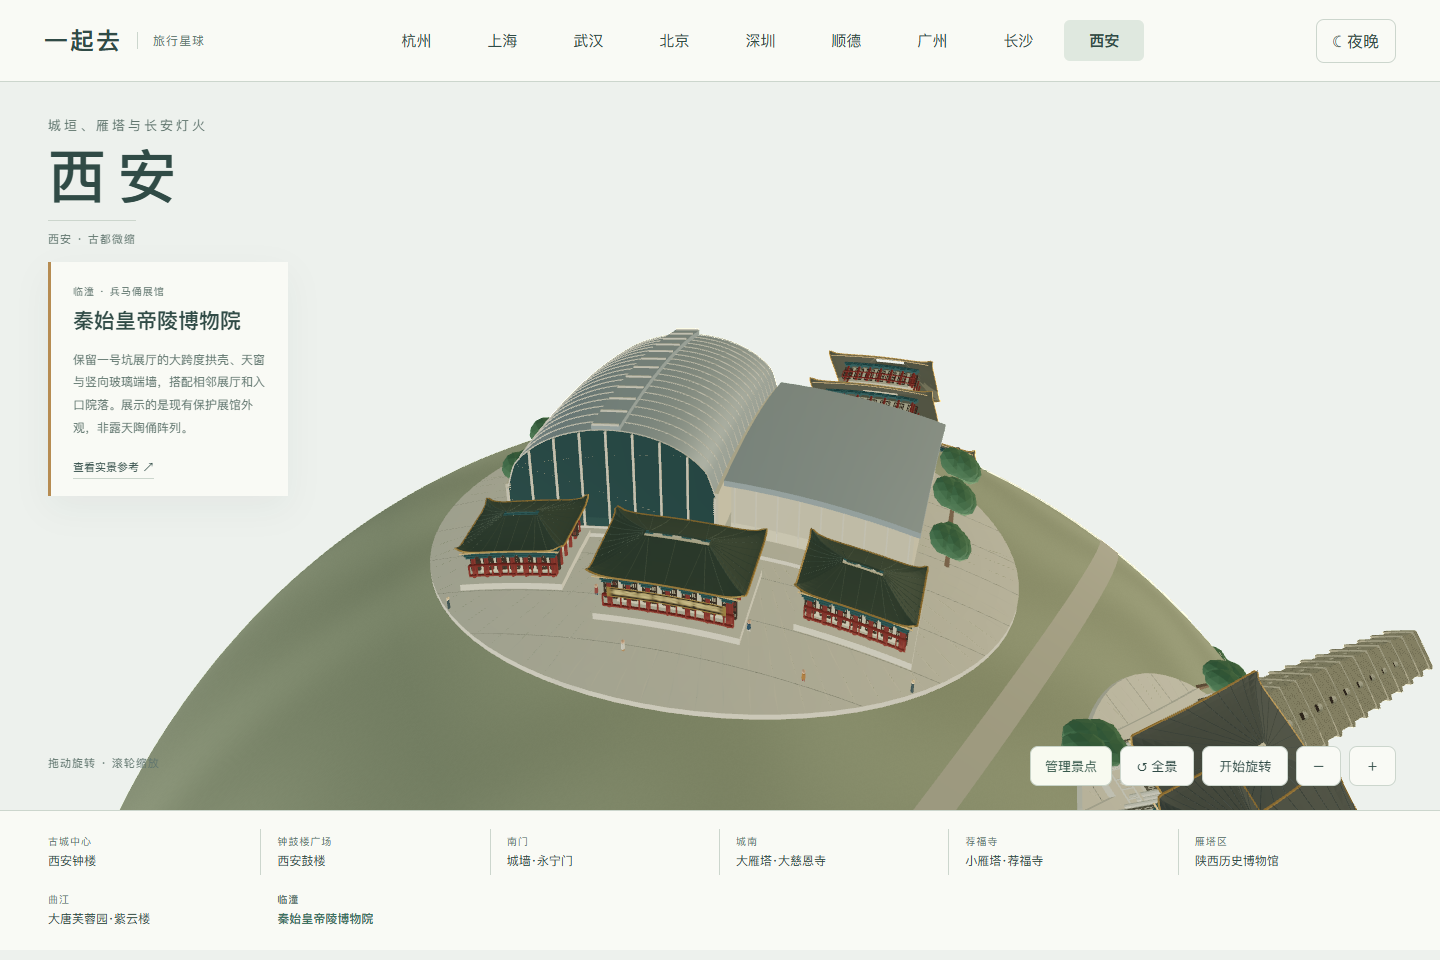
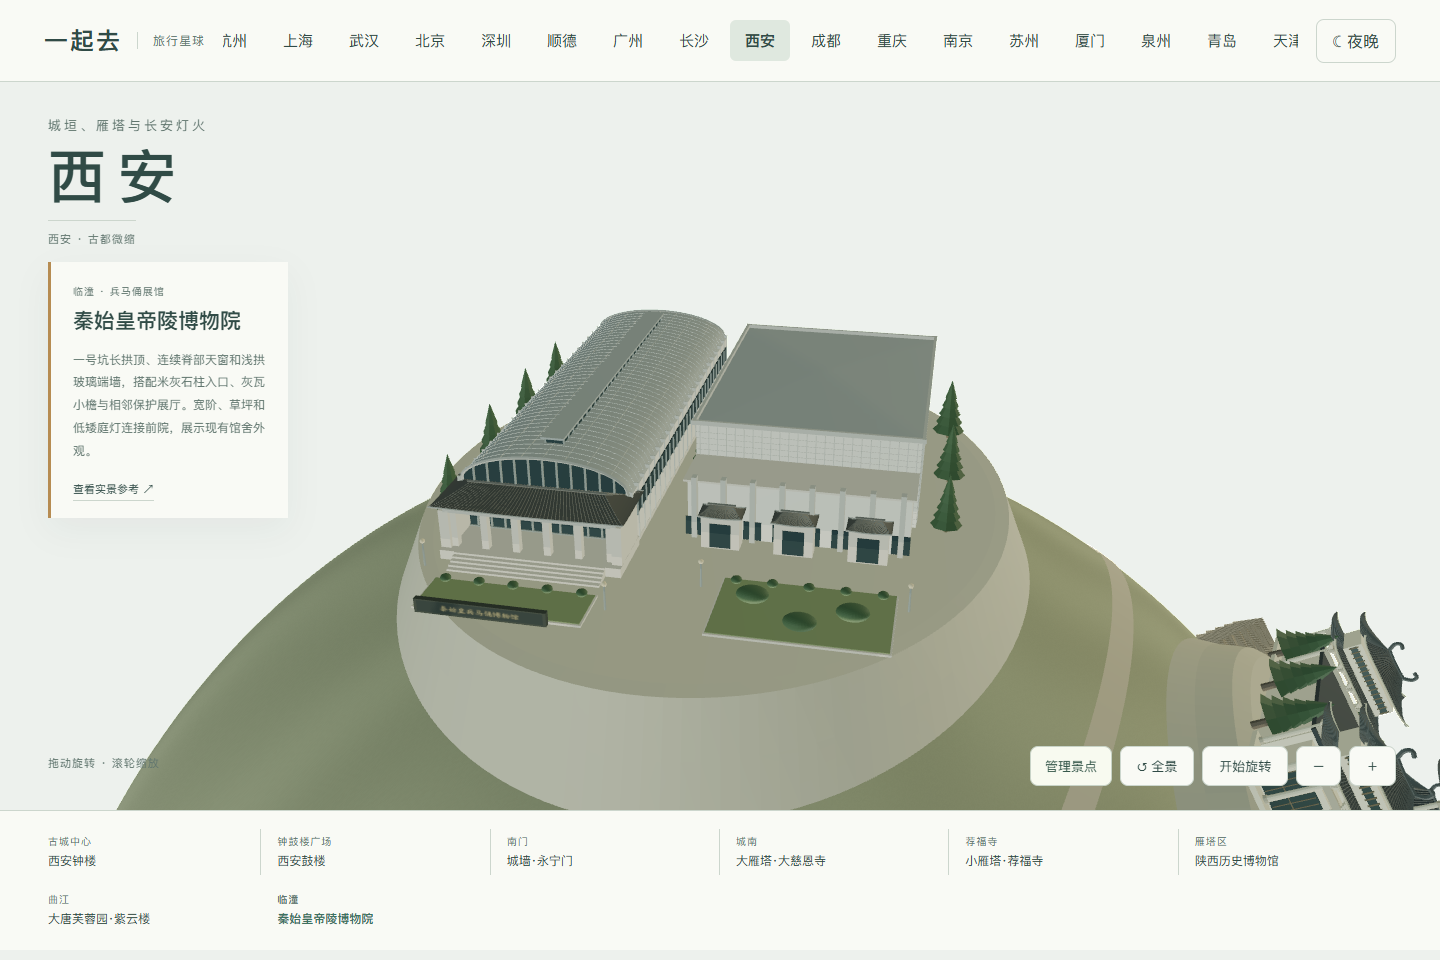
Refine Terracotta Army protective halls and courtyard lighting

diff --git a/web/xian-warriors.js b/web/xian-warriors.js
@@ -1,0 +1,96 @@
+import * as THREE from 'three';
+
+function surface(k,g,m,fn,nu=32,nv=24){
+ const p=[],ix=[];for(let j=0;j<=nv;j++)for(let i=0;i<=nu;i++)p.push(...fn(i/nu,j/nv));
+ for(let j=0;j<nv;j++)for(let i=0;i<nu;i++){const a=j*(nu+1)+i,b=a+nu+1;ix.push(a,a+1,b,a+1,b+1,b);}
+ const geo=new THREE.BufferGeometry();geo.setAttribute('position',new THREE.Float32BufferAttribute(p,3));geo.setIndex(ix);geo.computeVertexNormals();m.side=THREE.DoubleSide;k.mesh(g,geo,m);
+}
+function hip(k,g,p,w,d,y,h){
+ const ridge=Math.max(.015,w/2-d*.38);
+ for(const sign of [-1,1]){
+  const pt=(u,t,lift=0)=>[(u*2-1)*(ridge+(w/2-ridge)*t),y+h*(1-t)**1.28+.003*t**6*Math.abs(u*2-1)**6+lift,sign*d/2*t];
+  surface(k,g,p.tile,(u,t)=>pt(u,t),36,12);
+  for(let i=0;i<=50;i++)k.line(g,Array.from({length:9},(_,j)=>pt(i/50,j/8,.0007)),.00065,p.tileRib);
+  surface(k,g,p.tile,(u,t)=>[sign*(ridge+(w/2-ridge)*t),y+h*(1-t)**1.28+.003*t**6*Math.abs(u*2-1)**6,(u*2-1)*d/2*t],24,12);
+  k.line(g,[[-w/2,y+.003,sign*d/2],[0,y,sign*d/2],[w/2,y+.003,sign*d/2]],.002,p.trim);
+ }
+ k.line(g,[[-ridge-.006,y+h+.004,0],[ridge+.006,y+h+.004,0]],.003,p.tileRib);
+}
+function cedar(k,g,p,x,z,h){
+ k.cyl(g,.003,.006,h*.65,p.trunk,x,.016+h*.32,z,6);
+ for(let j=0;j<5;j++)k.mesh(g,new THREE.ConeGeometry(h*(.27-.043*j),h*.33,8),p.leaf,x,.016+h*(.30+.15*j),z);
+}
+function entry(k,g,p,x,z,w=.43){
+ const e=new THREE.Group();e.position.set(x,0,z);g.add(e);
+ k.box(e,w+.024,.024,.165,p.stone,0,.026,0);
+ for(let i=0;i<5;i++)k.box(e,w*.88,.0048*(i+1),.012,p.stone,0,.014+.0024*(i+1),.128-i*.012);
+ for(let i=0;i<6;i++)k.box(e,.017,.096,.019,p.stone,(i/5-.5)*w*.91,.088,.050);
+ for(const s of [-1,1])k.box(e,.025,.10,.14,p.stone,s*w/2,.090,0);
+ k.box(e,w,.018,.14,p.trim,0,.145,0);hip(k,e,p,w+.050,.185,.156,.030);
+ for(let i=0;i<5;i++){
+  const xx=((i+.5)/5-.5)*w*.91;k.box(e,w*.14,.095,.004,p.glass,xx,.088,-.06);
+  k.box(e,w*.12,.002,.006,p.lamp,xx,.130,.038);
+ }
+}
+function sign(k,g,p){
+ k.box(g,.31,.035,.014,p.darkStone,-.39,.033,.74);
+ if(typeof document==='undefined')return;
+ const c=document.createElement('canvas');c.width=1024;c.height=128;const ctx=c.getContext('2d');ctx.fillStyle='#3c4742';ctx.fillRect(0,0,1024,128);ctx.fillStyle='#b9ac7f';ctx.font='72px "KaiTi", "Microsoft YaHei", serif';ctx.textAlign='center';ctx.textBaseline='middle';ctx.fillText('秦始皇兵马俑博物馆',512,68,995);
+ const t=new THREE.CanvasTexture(c);t.colorSpace=THREE.SRGBColorSpace;const m=new THREE.MeshStandardMaterial({map:t,roughness:.9});m.userData.night={color:new THREE.Color('#c1b38e'),intensity:.08};k.materials.push(m);k.mesh(g,new THREE.PlaneGeometry(.296,.028),m,-.39,.034,.7475);
+}
+export function warriors(k){
+ const first=k.materials.length,g=new THREE.Group(),p={stone:k.mat('#bebdb0'),trim:k.mat('#acb0a7'),wall:k.mat('#c5c7bc'),panel:k.mat('#aeb3aa'),glass:k.mat('#384e4f',.4,.12),frame:k.mat('#8c9690'),metal:k.mat('#9da6a1',.73,.17),seam:k.mat('#bdc4bb',.8),tile:k.mat('#595d57'),tileRib:k.mat('#767971'),leaf:k.mat('#526b4c'),trunk:k.mat('#746d58'),ground:k.mat('#bcbba6'),lawn:k.mat('#819068'),darkStone:k.mat('#444d44')};
+ for(const [key,m]of Object.entries(p))m.userData.night={color:new THREE.Color(key==='glass'?'#edd8ad':key==='leaf'?'#7b946f':'#ddc9a4'),intensity:key==='glass'?.15:key==='metal'?.025:key==='ground'?.025:.045};
+ p.lamp=k.mat('#c9c0a3',.8,0,'#ffe0a6');p.lamp.userData.night.intensity=.6;p.metal.userData.preserveSmooth=true;
+ // A continuous flat visitor plaza blends down to the sphere only beyond the buildings.
+ surface(k,g,p.ground,(u,v)=>{const a=u*Math.PI*2,r=v,x=.84*r*Math.cos(a),z=1.02*r*Math.sin(a),sag=2.15-Math.sqrt(2.15**2-x*x-z*z);return[x,.014-sag*THREE.MathUtils.smoothstep(r,.91,1),z];},128,24);
+ const one=new THREE.Group();one.position.set(-.36,0,-.20);g.add(one);
+ const w=.43,d=1.16,roofY=x=>.165+.077*Math.sqrt(Math.max(0,1-(x/(w/2))**2));
+ k.box(one,w+.015,.012,d+.018,p.stone,0,.020,0);
+ for(const s of [-1,1]){
+  k.box(one,.014,.145,d,p.wall,s*w/2,.093,0);
+  for(let i=0;i<23;i++){const z=(i/22-.5)*d;k.box(one,.017,.155,.004,p.panel,s*(w/2+.001),.097,z);}
+  k.box(one,.003,.045,d-.06,p.glass,s*(w/2+.009),.121,0);
+  for(let i=0;i<28;i++)k.box(one,.004,.048,.002,p.frame,s*(w/2+.012),.121,(i/27-.5)*(d-.06));
+ }
+ surface(k,one,p.metal,(u,v)=>{const x=(u-.5)*w;return[x,roofY(x),(v-.5)*d];},48,60);
+ for(let i=0;i<=43;i++){const z=(i/43-.5)*d;k.line(one,Array.from({length:41},(_,j)=>{const x=(j/40-.5)*w;return[x,roofY(x)+.0008,z];}),.00065,p.seam);}
+ for(const x of [-.17,-.11,-.055,0,.055,.11,.17])k.line(one,[[x,roofY(x)+.001,-d/2],[x,roofY(x)+.001,d/2]],.00055,p.panel);
+ for(const s of [-1,1]){
+  const f=new THREE.Shape();f.moveTo(-w/2,.026);f.lineTo(w/2,.026);for(let i=48;i>=0;i--){const x=(i/48-.5)*w;f.lineTo(x,roofY(x)-.004);}f.closePath();
+  const m=k.mesh(one,new THREE.ShapeGeometry(f),p.glass,0,0,s*d/2);if(s<0)m.rotation.y=Math.PI;
+  for(let i=0;i<13;i++){const x=(i/12-.5)*w,h=roofY(x)-.026;k.box(one,.004,h,.006,p.frame,x,.026+h/2,s*(d/2+.002));}
+  for(let j=0;j<5;j++){const y=.042+j*.031;k.box(one,w-.009,.0025,.004,p.frame,0,y,s*(d/2+.005));}
+  k.line(one,Array.from({length:49},(_,j)=>{const x=(j/48-.5)*w;return[x,roofY(x)+.001,s*(d/2+.003)];}),.004,p.trim);
+ }
+ // Raised continuous ridge-light above the shallow vault.
+ k.box(one,.046,.020,d*.84,p.glass,0,.248,0);k.box(one,.060,.005,d*.87,p.metal,0,.261,0);
+ for(const s of [-1,1])for(let i=0;i<27;i++)k.box(one,.004,.019,.003,p.frame,s*.024,.248,(i/26-.5)*d*.84);
+ entry(k,g,p,-.36,.43,.43);
+ // The neighboring pit hall is a broad, low square volume with an entrance extension.
+ const two=new THREE.Group();two.position.set(.25,0,-.25);g.add(two);
+ k.box(two,.57,.237,.76,p.wall,0,.136,0);
+ surface(k,two,p.metal,(u,v)=>[(u-.5)*.57,.258+.021*(1-Math.max(Math.abs(u*2-1),Math.abs(v*2-1))),(v-.5)*.76],24,30);
+ for(const s of [-1,1]){
+  k.box(two,.008,.012,.78,p.trim,s*.289,.262,0);k.box(two,.59,.012,.008,p.trim,0,.262,s*.384);
+  for(let i=0;i<25;i++)k.box(two,.002,.224,.002,p.panel,(i/24-.5)*.55,.139,s*.381);
+  for(let i=0;i<35;i++)k.box(two,.002,.224,.002,p.panel,s*.286,.139,(i/34-.5)*.74);
+ }
+ for(let j=0;j<14;j++)for(const s of [-1,1]){const y=.026+j*.016;k.box(two,.571,.0006,.001,p.panel,0,y,s*.381);k.box(two,.001,.0006,.761,p.panel,s*.286,y,0);}
+ k.box(two,.55,.15,.17,p.wall,0,.091,.44);k.box(two,.57,.005,.185,p.stone,0,.169,.44);
+ for(let i=0;i<8;i++){const x=(i/7-.5)*.51;k.box(two,.013,.166,.020,p.trim,x,.102,.535);k.box(two,.045,.050,.003,p.glass,x,.050,.539);}
+ for(const x of [-.18,0,.18]){const e=new THREE.Group();e.position.set(x,0,.568);two.add(e);k.box(e,.095,.085,.045,p.stone,0,.063,0);k.box(e,.053,.065,.002,p.glass,0,.056,.023);hip(k,e,p,.11,.067,.108,.019);}
+ // Front lawns leave clear walks to both halls; planting frames the site rather than filling it.
+ for(const [x,z,ww,dd]of [[-.36,.67,.39,.12],[.31,.59,.40,.23]]){
+  k.box(g,ww+.008,.005,dd+.008,p.stone,x,.018,z);k.box(g,ww,.002,dd,p.lawn,x,.022,z);
+  for(let i=0;i<5;i++){const b=k.ball(g,.013,p.leaf,x+(i/4-.5)*ww*.85,.031,z-dd*.43);b.scale.y=.70;}
+ }
+ for(const [x,z]of [[.19,.56],[.42,.59],[.31,.65]]){const b=k.ball(g,.027,p.leaf,x,.040,z);b.scale.set(1.4,.7,1);}
+ for(const [x,z,h]of [[-.65,-.55,.17],[-.65,-.28,.18],[-.65,0,.18],[-.65,.29,.16],[-.06,-.58,.16],[-.06,-.35,.17],[-.06,-.12,.16],[.60,-.46,.17],[.61,-.16,.16],[.61,.13,.15]])cedar(k,g,p,x,z,h);
+ for(const [i,[x,z]]of [[-.13,.65],[.06,.51],[.54,.52],[-.61,.55]].entries()){
+  const lamp=k.mat('#c9c0a3',.8,0,'#ffe0a6');lamp.userData.night.intensity=.80;lamp.userData.pulse={speed:.70+i*.08,phase:i*1.7};
+  k.cyl(g,.002,.003,.064,p.frame,x,.046,z,8);k.ball(g,.006,lamp,x,.081,z);
+ }
+ sign(k,g,p);for(const m of k.materials.slice(first))m.userData.warriorsRigid=true;
+ g.userData={barrelVault:true,pitHalls:2,openStonePortico:true};return k.merge(g);
+}

diff --git a/web/xian-places.js b/web/xian-places.js
@@ -1,7 +1,6 @@
 import * as THREE from 'three';
 import {colors,terrace,ellipseSurface,steps,timberFloor,eave,hall,groves,finish,archWall,roof,glow,people} from './xian-kit.js';
 import {plaque,rail} from './wuhan-architecture.js';
-import {skin} from './shenzhen-forms.js';
 
 export function wall(k){
   const g=new THREE.Group(),p=colors(k);terrace(k,g,p,.77,.61);
@@ -32,18 +31,4 @@ export function furong(k){
   const island=k.cyl(g,.09,.10,.018,p.green,.49,.03,.20,24);hall(k,g,p,{x:.49,z:.20,w:.10,d:.10,y:.04,h:.06,roofHeight:.035});
   g.userData={modernTangGarden:true};return finish(k,g,p,{visitors:[[-.12,.07],[.12,.06],[-.40,-.01],[.20,-.03]]});
 }
-export function warriors(k){
-  const g=new THREE.Group(),p=colors(k);terrace(k,g,p,.80,.68);const metal=k.mat('#a6b1ae',.62,.34),glass=k.mat('#42615e',.27,.25);glass.userData.night={color:new THREE.Color('#e9d7ae'),intensity:.18};
-  const pit=new THREE.Group();pit.position.set(-.24,0,-.16);const w=.56,d=.70,roofY=x=>.16+.16*Math.sqrt(Math.max(0,1-(x/(w/2))**2));
-  k.box(pit,w,.02,d,p.light,0,.024,0);for(const s of [-1,1])k.box(pit,.015,.14,d,p.wall,s*w/2,.10,0);
-  skin(k,pit,(u,v)=>{const x=(u-.5)*w;return [x,roofY(x),(v-.5)*d];},30,36,metal);metal.userData.preserveSmooth=true;
-  for(let i=0;i<=18;i++){const z=(i/18-.5)*d;k.line(pit,Array.from({length:25},(_,j)=>{const x=(j/24-.5)*w;return [x,roofY(x)+.002,z];}),.0015,p.light);}
-  const facade=new THREE.Shape();facade.moveTo(-w/2,.035);facade.lineTo(w/2,.035);for(let i=24;i>=0;i--){const x=(i/24-.5)*w;facade.lineTo(x,roofY(x));}facade.closePath();
-  for(const s of [-1,1]){const face=k.mesh(pit,new THREE.ShapeGeometry(facade),glass,0,0,s*d/2);if(s<0)face.rotation.y=Math.PI;for(let i=0;i<=8;i++){const x=(i/8-.5)*w;k.box(pit,.004,roofY(x)-.035,.006,p.light,x,(roofY(x)+.035)/2,s*(d/2+.004));}}
-  k.box(pit,.075,.014,d,metal,0,.328,0);for(let i=0;i<12;i++)k.box(pit,.07,.005,.004,p.light,0,.337,(i/11-.5)*d);g.add(pit);
-  k.box(g,.46,.16,.62,p.wall,.30,.10,-.16);k.box(g,.49,.016,.65,metal,.30,.186,-.16);
-  for(let i=0;i<9;i++)k.box(g,.003,.148,.006,p.light,.08+i*.055,.11,.154);
-  for(const s of [-1,1])hall(k,g,p,{x:s*.43,z:.31,w:.24,d:.16,h:.085,roofHeight:.04});hall(k,g,p,{x:0,z:.38,w:.32,d:.18,h:.10,roofHeight:.045});
-  k.box(g,.92,.011,.12,p.light,0,.022,.15);groves(k,g,[[-.58,-.45,.09],[-.59,-.25,.10],[-.59,-.04,.09],[.60,-.43,.10],[.60,-.21,.10],[.61,.01,.09]]);
-  plaque(k,g,'秦始皇帝陵博物院',.29,.028,0,.096,.479);g.userData={barrelVault:true,pitHalls:2};return finish(k,g,p,{lamps:[[-.58,.46],[.58,.46],[-.15,.22],[.15,.22]],visitors:[[-.2,.41],[.19,.44],[-.08,.56],[.34,.53]]});
-}
+export {warriors} from "./xian-warriors.js";

diff --git a/web/xian-landmarks.js b/web/xian-landmarks.js
@@ -8,7 +8,7 @@ export const LANDMARKS=[
   {id:'smallPagoda',name:'小雁塔·荐福寺',area:'荐福寺 · 密檐古塔',x:-1.02,z:.85,hemisphere:-1,height:1.27,distance:2.9,view:[.33,.73,1.7],description:'十三层砖塔向上渐密收分，南北券窗与叠涩砖檐保留细节，四角残墙围合塔顶。石门、台阶、灰瓦殿堂和古树组成荐福寺院落，夜间以低亮暖光呈现砖色。',source:'https://m.thepaper.cn/newsDetail_forward_28705852'},
   {id:'museum',name:'陕西历史博物馆',area:'雁塔区 · 唐风殿堂',x:1.07,z:.95,hemisphere:-1,height:.53,distance:3.0,view:[.35,.73,1.7],description:'独立前门、重檐主殿、四角楼与连续柱廊围合庭院，灰瓦、浅石柱和宽阶保留唐风馆舍层次。入口水池与灰底金字石牌面向广场，夜间以廊下暖光和低矮庭灯分层。',source:'https://www.cscec.com/ztzl_new/mhsjd81_new/bq/201812/2899627.html'},
   {id:'furong',name:'大唐芙蓉园·紫云楼',area:'曲江 · 临水唐风园林',x:-1.10,z:-.88,hemisphere:-1,height:.72,distance:3.0,view:[.45,1.0,1.6],description:'紫云楼、侧亭、台阶与临水广场面向芙蓉湖。夜间以暖金檐光衬托深色屋顶和水面；这是现代仿唐园林的缩微表达。',source:'https://dp.pconline.com.cn/photo/list_4848079.html'},
-  {id:'warriors',name:'秦始皇帝陵博物院',area:'临潼 · 兵马俑展馆',x:1.10,z:-.88,hemisphere:-1,height:.40,distance:3.0,view:[.45,1.0,1.65],description:'保留一号坑展厅的大跨度拱壳、天窗与竖向玻璃端墙，搭配相邻展厅和入口院落。展示的是现有保护展馆外观，非露天陶俑阵列。',source:'https://www.bmy.com.cn/index.htm'},
+  {id:'warriors',name:'秦始皇帝陵博物院',area:'临潼 · 兵马俑展馆',x:1.10,z:-1.08,hemisphere:-1,height:.30,distance:3.1,view:[.35,.80,1.7],description:'一号坑长拱顶、连续脊部天窗和浅拱玻璃端墙，搭配米灰石柱入口、灰瓦小檐与相邻保护展厅。宽阶、草坪和低矮庭灯连接前院，展示现有馆舍外观。',source:'https://www.bmy.com.cn/pitone.html'},
 ].map(item=>({...item,grounded:true}));
 const builders={bell,drum,wall,pagoda,smallPagoda,museum:historyMuseum,furong,warriors};
 export function createLandmark(k,id){if(!builders[id])throw new Error(`Unknown Xian landmark: ${id}`);return builders[id](k);}

diff --git a/web/xian-scene.js b/web/xian-scene.js
@@ -14,7 +14,7 @@ export function createXianScene(){
     model.traverse(o=>{
       if(!o.isMesh)return;o.userData.landmark=item.id;o.castShadow=true;o.receiveShadow=true;o.material.envMapIntensity=.30;
       const old=o.geometry;o.geometry=new TessellateModifier(.055,7).modify(old);old.dispose();const a=o.geometry.attributes.position,n=o.geometry.attributes.normal;
-      if(!o.material.userData.pagodaRigid&&!o.material.userData.drumRigid&&!o.material.userData.smallPagodaRigid&&!o.material.userData.museumRigid)for(let i=0;i<a.count;i++){const x=a.getX(i),z=a.getZ(i);a.setY(i,a.getY(i)-sag(x,z));if(o.material.userData.preserveSmooth){const ny=n.getY(i),r=Math.sqrt(Math.max(.001,RADIUS*RADIUS-x*x-z*z)),nx=n.getX(i)+x/r*ny,nz=n.getZ(i)+z/r*ny,len=Math.hypot(nx,ny,nz);n.setXYZ(i,nx/len,ny/len,nz/len);}}
+      if(!o.material.userData.pagodaRigid&&!o.material.userData.drumRigid&&!o.material.userData.smallPagodaRigid&&!o.material.userData.museumRigid&&!o.material.userData.warriorsRigid)for(let i=0;i<a.count;i++){const x=a.getX(i),z=a.getZ(i);a.setY(i,a.getY(i)-sag(x,z));if(o.material.userData.preserveSmooth){const ny=n.getY(i),r=Math.sqrt(Math.max(.001,RADIUS*RADIUS-x*x-z*z)),nx=n.getX(i)+x/r*ny,nz=n.getZ(i)+z/r*ny,len=Math.hypot(nx,ny,nz);n.setXYZ(i,nx/len,ny/len,nz/len);}}
       a.needsUpdate=true;if(o.material.userData.preserveSmooth)n.needsUpdate=true;else o.geometry.computeVertexNormals();
       if(!o.material.userData.night)o.material.userData.night={color:o.material.color.clone(),intensity:.045};
     });

diff --git a/README.md b/README.md
@@ -1,6 +1,6 @@
 # 一起去 · Travel Planet
 
-用可旋转的 3D 城市星球发现景点，再和朋友一起决定怎么旅行。当前版本 **0.55.25**，支持桌面和手机网页。
+用可旋转的 3D 城市星球发现景点，再和朋友一起决定怎么旅行。当前版本 **0.55.26**，支持桌面和手机网页。
 
 **[上海旅行 · 在线体验](https://43.139.249.151/travel/shanghai-trip.html)** · **[杭州旅行](https://43.139.249.151/travel/)** · **[武汉旅行](https://43.139.249.151/travel/wuhan-trip.html)** · **[武汉纯地图](https://43.139.249.151/travel/wuhan.html)** · **[上海纯地图](https://43.139.249.151/travel/shanghai.html)** · **[北京地图](https://43.139.249.151/travel/beijing.html)** · **[深圳地图](https://43.139.249.151/travel/shenzhen.html)** · **[顺德地图](https://43.139.249.151/travel/shunde.html)** · **[广州地图](https://43.139.249.151/travel/guangzhou.html)** · **[长沙地图](https://43.139.249.151/travel/changsha.html)** · **[西安地图](https://43.139.249.151/travel/xian.html)** · **[成都地图](https://43.139.249.151/travel/chengdu.html)** · **[重庆地图](https://43.139.249.151/travel/chongqing.html)** · **[南京地图](https://43.139.249.151/travel/nanjing.html)** · **[苏州地图](https://43.139.249.151/travel/suzhou.html)** · **[厦门地图](https://43.139.249.151/travel/xiamen.html)** · **[泉州地图](https://43.139.249.151/travel/quanzhou.html)** · **[青岛地图](https://43.139.249.151/travel/qingdao.html)** · **[天津地图](https://43.139.249.151/travel/tianjin.html)** · **[大理地图](https://43.139.249.151/travel/dali.html)** · **[桂林地图](https://43.139.249.151/travel/guilin.html)** · **[三亚地图](https://43.139.249.151/travel/sanya.html)** · **[香港地图](https://43.139.249.151/travel/hongkong.html)** · **[澳门地图](https://43.139.249.151/travel/macau.html)**
 
@@ -31,7 +31,7 @@
 
 长沙包含 **10 组具名地标**：岳麓书院、爱晚亭、杜甫江阁、天心阁、湖南博物院、梅溪湖艺术中心、谢子龙影像艺术馆、国金中心双塔、橘子洲大桥和青年毛泽东艺术雕塑。杜甫江阁补齐深灰瓦歇山顶、红柱白回廊、双向台阶与两侧游廊小亭，夜间以暖金屋面与窗灯分层。雕塑包含横向肩部、立体面部与侧扬发束，洲头草坪和环形步道置于两侧水道之间；两岸建筑已避让扩展后的河道。梅溪湖按四瓣大剧场、三瓣艺术馆和单瓣小剧场分出轮廓与翻卷屋盖。包含连续山地、山林、跨江低拱与环形匝道、两岸步道和湘江洲地、双半球布局、日夜、自由旋转、手机与整组管理；长沙尚未接入多人旅行。详见 [长沙造型参考](docs/CHANGSHA_REFERENCES.md)。
 
-西安新增 **8 组具名地标**：钟楼、鼓楼、永宁门城墙、大雁塔与大慈恩寺、小雁塔与荐福寺、陕西历史博物馆、大唐芙蓉园紫云楼、秦始皇帝陵博物院。钟楼补齐三开间红门与外廊、青绿金彩绘、层叠斗拱、细密绿瓦、铜钟与石栏；鼓楼重做七开间外廊、歇山红山墙、青绿彩绘、两列鼓架和侧面台阶；大雁塔补齐七层券窗、砖仿木柱、叠涩檐带、底层碑龛、葫芦塔刹及灰瓦寺院；小雁塔补齐南北券窗、十三层叠涩密檐、四角残墙、南石门与北门罩、灰瓦寺院及古树；陕历博分开前门、重檐主殿和四角楼，补连续柱廊、宽阶、水院与廊下暖光；保留贯通券洞、砖塔收分、柱廊、临水园林和保护展馆大跨度拱壳，提供双半球布局、日夜、逐景近看、手机触控和整组管理。西安当前为景观地图，未接入多人旅行。详见 [西安实拍参考](docs/XIAN_REFERENCES.md)。
+西安新增 **8 组具名地标**：钟楼、鼓楼、永宁门城墙、大雁塔与大慈恩寺、小雁塔与荐福寺、陕西历史博物馆、大唐芙蓉园紫云楼、秦始皇帝陵博物院。钟楼补齐三开间红门与外廊、青绿金彩绘、层叠斗拱、细密绿瓦、铜钟与石栏；鼓楼重做七开间外廊、歇山红山墙、青绿彩绘、两列鼓架和侧面台阶；大雁塔补齐七层券窗、砖仿木柱、叠涩檐带、底层碑龛、葫芦塔刹及灰瓦寺院；小雁塔补齐南北券窗、十三层叠涩密檐、四角残墙、南石门与北门罩、灰瓦寺院及古树；陕历博分开前门、重檐主殿和四角楼，补连续柱廊、宽阶、水院与廊下暖光；兵马俑展馆按实拍重做浅拱长壳、连续天窗、石柱门廊和相邻保护厅，扩大与陕历博间距；保留贯通券洞、砖塔收分、柱廊、临水园林和保护展馆大跨度拱壳，提供双半球布局、日夜、逐景近看、手机触控和整组管理。西安当前为景观地图，未接入多人旅行。详见 [西安实拍参考](docs/XIAN_REFERENCES.md)。
 
 成都新增 **8 组具名地标**：武侯祠汉昭烈庙入口、杜甫草堂茅屋故居、安顺廊桥、IFS 爬墙熊猫、熊猫基地熊猫塔、天府美术馆、金沙遗址博物馆陈列馆、东安湖主体育场。区分茅草、木构、铜色外肋、花瓣曲面与玻璃幕墙；日夜保留建筑原色，体育场屋面和商业街有缓慢灯光变化。提供双半球、自由旋转、手机触控与整组管理；成都尚未接入多人旅行。[查看实拍参考](docs/CHENGDU_REFERENCES.md)。
 

diff --git a/docs/TESTING.md b/docs/TESTING.md
@@ -357,3 +357,10 @@ python tools/travel-flow-check.py
 345 项完整测试、350 项 JavaScript 语法检查通过，含 9 项西安专项。新增射线检查覆盖前门中央通道、主殿外廊净空、十级台阶与平台连续性、四角楼与低侧廊高差；既有八组地标的落地、间距、夜间颜色、整组增删及资源释放检查通过。
 
 2026-11-04 14:15 正式日夜、侧背和 320 宽度截图直接核看；14:15—14:18 隔离浏览器验收覆盖全部八组取景、陕历博整组增删与刷新恢复、双指缩放、拖动和键盘、320/390/768/844/1000 宽度以及 WebGL 丢失后恢复。页面异常和业务写入均为 0。手机为浏览器模拟，未用真实旅行做写入测试。
+
+
+## 0.55.26 秦始皇帝陵博物院保护展馆
+
+346 项完整测试、351 项 JavaScript 语法检查通过，含 10 项西安专项。新检查覆盖浅拱长壳、连续脊部天窗、前门净空、五级台阶连续接入平台、相邻展厅落地，以及八组地标的陆地范围、间距和资源释放。
+
+2026-11-04 14:44—14:45 正式日夜、侧背和 320 宽度截图直接核看。首轮浏览器检查发现新版庭灯完全静止；补齐四盏独立缓慢明暗变化后，最终 10 项西安专项再次通过，确认减少动态效果时静止。14:49—14:51 完整交互重验通过，包含八组取景、整组增删与刷新恢复、双指缩放、拖动和键盘、320/390/768/844/1000 宽度与 WebGL 恢复；最终夜景、390 管理面板和窄屏图片已直接核看。页面异常和业务写入为 0，手机为浏览器模拟。完整 346 项记录在庭灯修正前，最终提交的完整检查以 GitHub Actions 为准。

diff --git a/docs/XIAN_REFERENCES.md b/docs/XIAN_REFERENCES.md
@@ -91,3 +91,18 @@
 ![陕历博柱廊与台阶](images/xian-museum-oblique.png)
 
 ![陕历博院落夜景](images/xian-museum-night.png)
+
+
+## 0.55.26 兵马俑保护展馆
+
+直接对照[秦始皇帝陵博物院一号坑页面](https://www.bmy.com.cn/pitone.html)的入口实拍、[独立正门照片](https://www.globalmountainsummit.org/terra-cotta-warriors.html)，以及[新华社发布的场馆航拍](https://www.xinhuanet.com/culture/20240910/61e0116ddcc6435584a9c5cc988564d5/c.html)。[博物院导览图](https://www.bmy.com.cn/guide/scenic.html?tid=2)仅用于核对相对位置，不作为屋面实拍。
+
+一号坑采用浅拱长壳，保留连续脊部天窗、两侧窗带、浅拱玻璃端墙和深灰金属分缝。前部改为五跨米灰石柱门廊、低矮灰瓦檐和连续宽阶，露出上部拱窗；去掉旧模型误用的红柱小殿。相邻保护厅保留宽阔低屋面、浅色墙板、前部突出门厅与入口，前院以草坪、修剪灌木和侧方雪松围合；不把其他馆舍冒称某号坑。
+
+夜间保留材质原色，以入口檐下暖灯、窗光和庭灯分层，避免将整片屋面点亮。建筑整体保持水平，场地外缘衔接球面，并拉开与陕历博的间距。模型是两座主要保护展厅的缩微表达，不是完整考古遗址或实测建筑复原；没有把场景灯光表述为现实夜游开放安排。照片仅作内部研究，未作为公开纹理或打包资产。
+
+![兵马俑展馆日景](images/xian-warriors.png)
+
+![长拱顶与相邻保护厅](images/xian-warriors-oblique.png)
+
+![兵马俑展馆夜景](images/xian-warriors-night.png)
